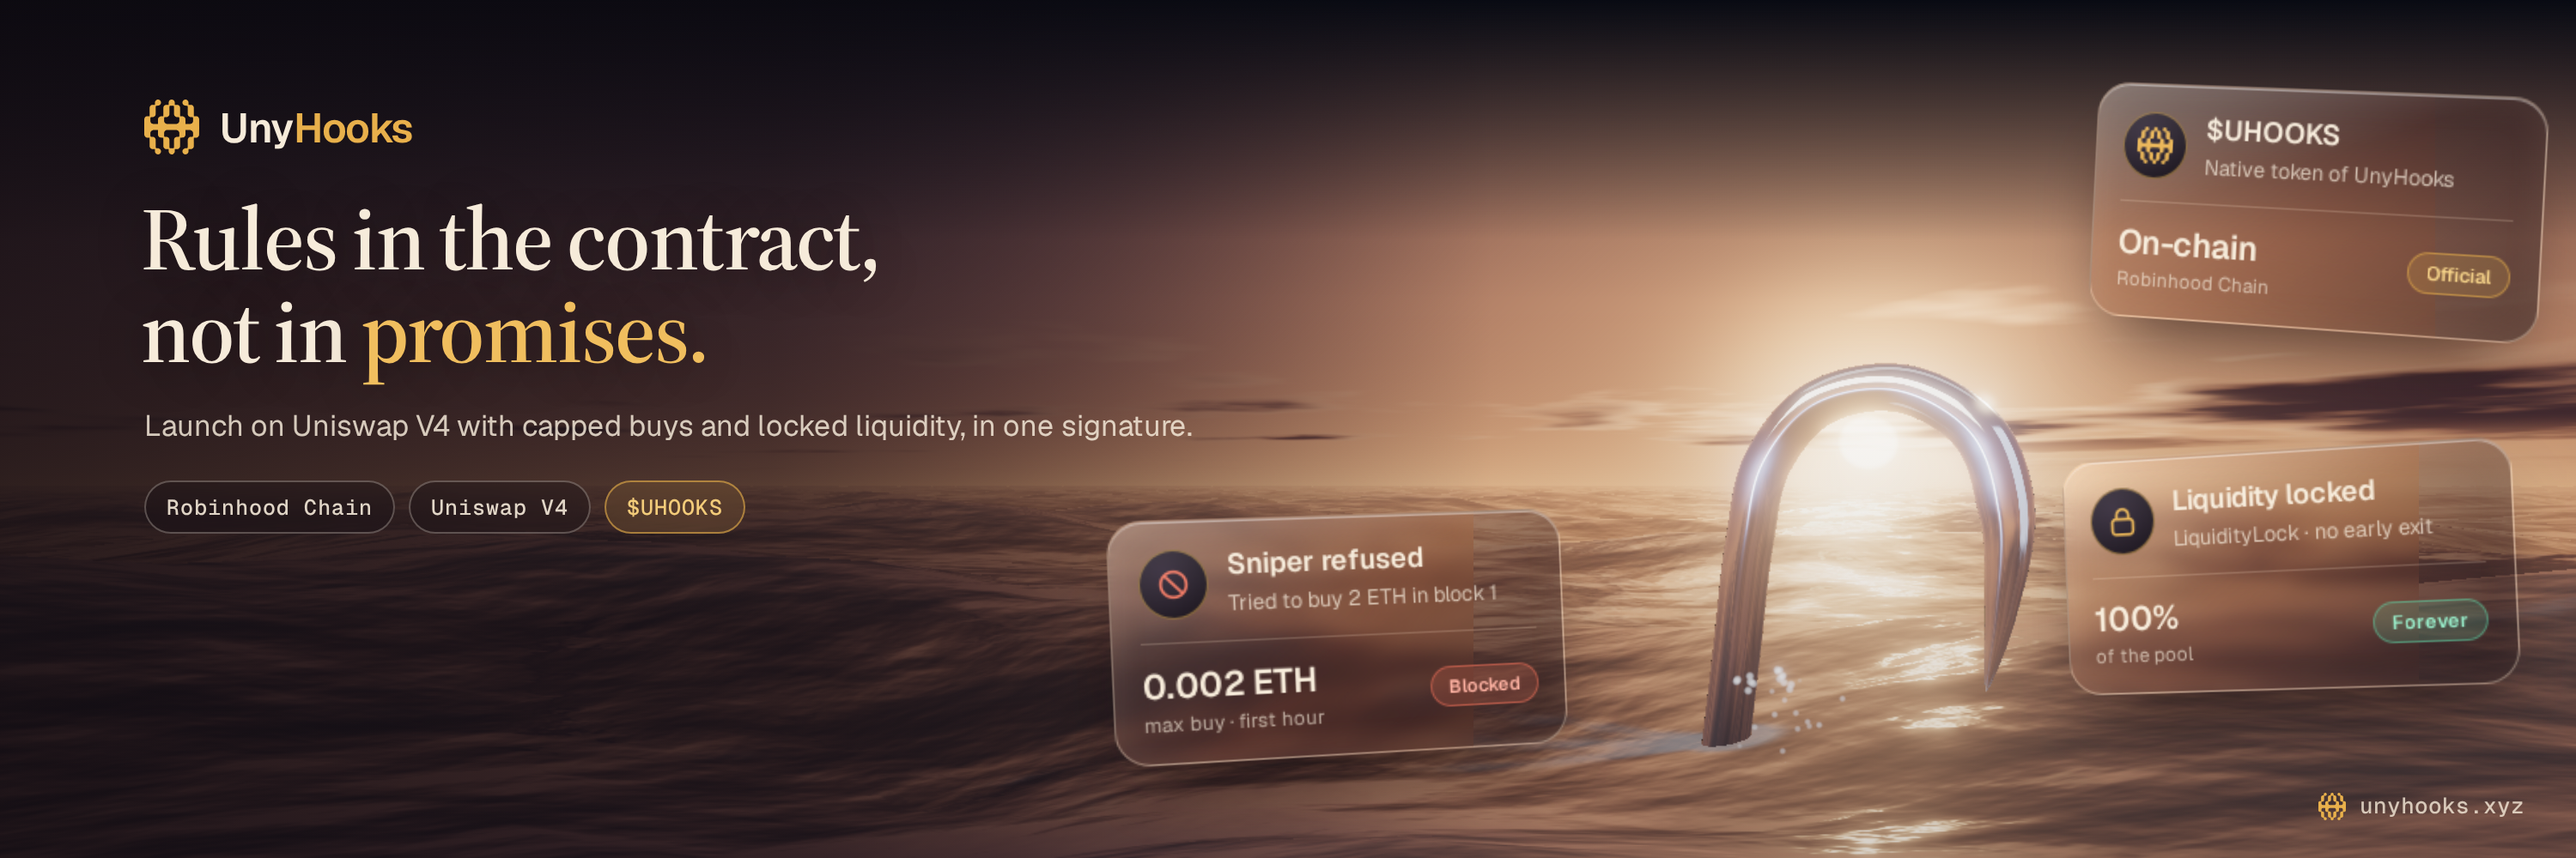
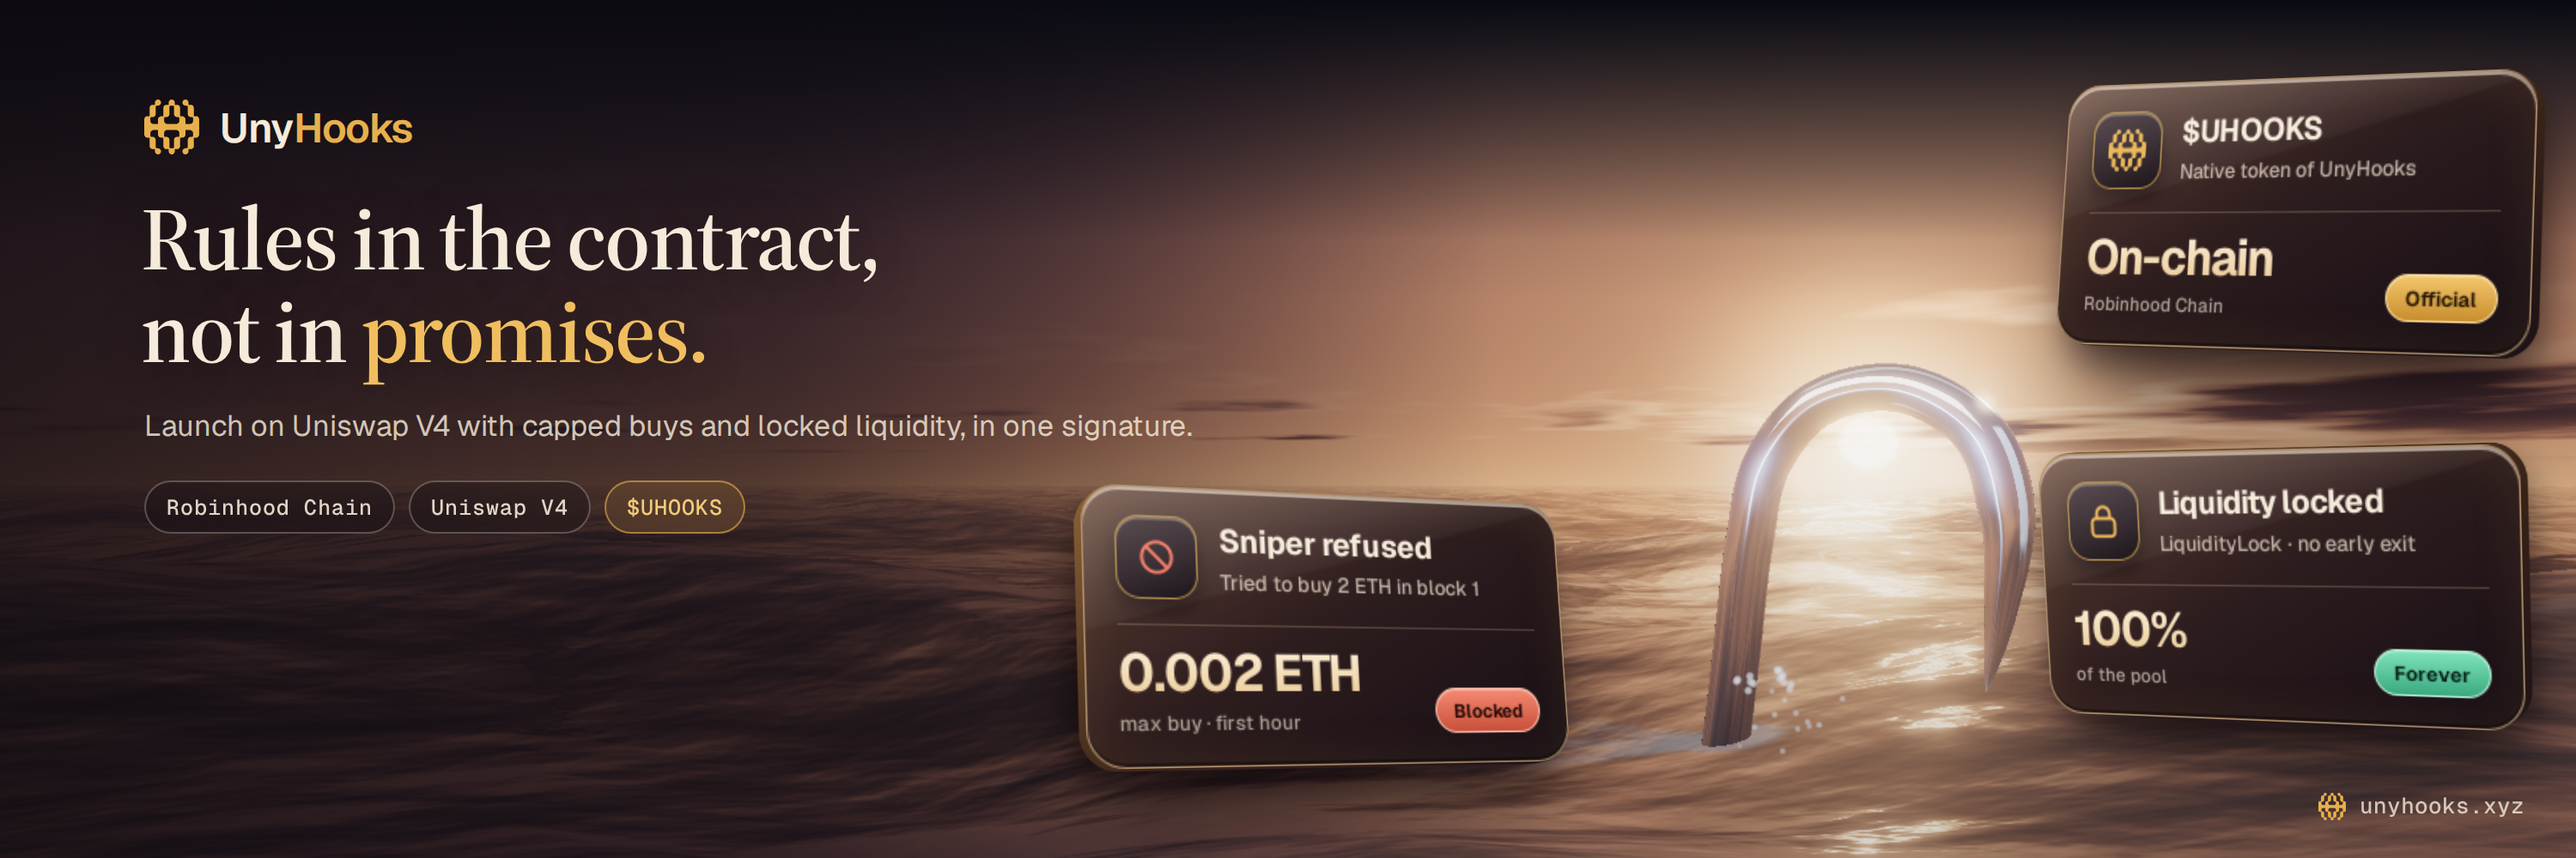
X header: bold 3D slab panels
Claude-Session: https://claude.ai/code/session_01BpK28j4zP1pJ1Z1u3JbspM

diff --git a/unyhooks-site/brand/x-header3.html b/unyhooks-site/brand/x-header3.html
@@ -13,24 +13,26 @@ h1 em{font-style:normal;color:#F0BE5E}
 .chips{position:absolute;left:84px;top:280px;display:flex;gap:8px}
 .chips span{font:500 12.5px 'Geist Mono',monospace;padding:6px 12px;border-radius:999px;color:rgba(246,235,218,.9);background:rgba(20,14,20,.35);border:1px solid rgba(246,235,218,.28);backdrop-filter:blur(6px)}
 .chips span.g{color:#F3CC7A;border-color:rgba(232,176,75,.6);background:rgba(232,176,75,.12)}
-.card{position:absolute;width:268px;padding:14px 16px 15px;border-radius:20px;
-  background:linear-gradient(140deg,rgba(255,236,214,.2),rgba(70,40,40,.32) 50%,rgba(24,14,20,.58));
-  border:1px solid rgba(255,232,205,.42);
-  box-shadow:inset 0 1px 0 rgba(255,255,255,.4),inset 0 0 22px rgba(255,210,170,.10),0 24px 46px -18px rgba(20,8,10,.7);
-  backdrop-filter:blur(10px) saturate(130%)}
-.card::after{content:'';position:absolute;inset:0;border-radius:20px;background:linear-gradient(160deg,rgba(255,255,255,.2),rgba(255,255,255,0) 38%);pointer-events:none}
-.row{display:flex;align-items:center;gap:11px}
-.ico{flex:none;width:40px;height:40px;border-radius:50%;display:grid;place-items:center;background:radial-gradient(circle at 35% 30%,#2A2030,#120C14);border:1px solid rgba(232,176,75,.5)}
-.ico svg{width:22px;height:22px}
-.t b{display:block;font:600 16.5px 'Geist',sans-serif;letter-spacing:-.01em}
-.t span{font-size:12.5px;color:rgba(246,235,218,.74)}
-.foot{display:flex;justify-content:space-between;align-items:center;margin-top:12px;padding-top:11px;border-top:1px solid rgba(255,232,205,.2)}
-.foot b{font:600 20px 'Geist',sans-serif;letter-spacing:-.015em}
-.foot small{display:block;font-size:11.5px;color:rgba(246,235,218,.66);margin-top:1px}
-.pill{font:600 11px 'Geist',sans-serif;padding:4px 10px;border-radius:999px;white-space:nowrap}
-.pill.gold{background:rgba(232,176,75,.18);color:#F7D48A;border:1px solid rgba(232,176,75,.55)}
-.pill.red{background:rgba(240,113,90,.2);color:#FFB3A3;border:1px solid rgba(240,113,90,.55)}
-.pill.green{background:rgba(95,211,166,.18);color:#9AF0CC;border:1px solid rgba(95,211,166,.5)}
+.slab{position:absolute;width:300px;transform-style:preserve-3d;transform:perspective(1000px) rotateX(var(--rx)) rotateY(var(--ry)) rotateZ(var(--rz))}
+.edge{position:absolute;inset:0;border-radius:22px;background:linear-gradient(150deg,#8a6236,#3a2418 55%,#1c1016);transform:translateZ(var(--z))}
+.edge.last{box-shadow:0 30px 60px -12px rgba(10,4,8,.75),0 10px 22px rgba(10,4,8,.45)}
+.card{position:relative;padding:16px 18px 17px;border-radius:22px;transform:translateZ(0);
+  background:linear-gradient(150deg,rgba(92,62,52,.96),rgba(44,28,30,.97) 48%,rgba(22,14,20,.98));
+  border:1.5px solid rgba(255,214,160,.62);
+  box-shadow:inset 0 2px 0 rgba(255,240,220,.55),inset 0 -2px 0 rgba(0,0,0,.35),inset 0 0 30px rgba(232,176,75,.10)}
+.card::after{content:'';position:absolute;inset:0;border-radius:21px;background:linear-gradient(165deg,rgba(255,255,255,.22),rgba(255,255,255,.04) 34%,rgba(255,255,255,0) 35%);pointer-events:none}
+.row{display:flex;align-items:center;gap:13px}
+.ico{flex:none;width:48px;height:48px;border-radius:14px;display:grid;place-items:center;background:linear-gradient(160deg,#3a2a30,#140c12);border:1.5px solid rgba(232,176,75,.7);box-shadow:inset 0 1.5px 0 rgba(255,230,190,.35),0 6px 12px rgba(0,0,0,.4)}
+.ico svg{width:26px;height:26px}
+.t b{display:block;font:700 19px 'Geist',sans-serif;letter-spacing:-.02em}
+.t span{font:500 12.5px 'Geist',sans-serif;color:rgba(246,235,218,.72)}
+.foot{display:flex;justify-content:space-between;align-items:flex-end;margin-top:14px;padding-top:12px;border-top:1px solid rgba(255,220,180,.22)}
+.foot b{font:700 30px/1 'Geist',sans-serif;letter-spacing:-.035em;background:linear-gradient(180deg,#FFF4E2,#E9C890);-webkit-background-clip:text;color:transparent}
+.foot small{display:block;font:500 11.5px 'Geist',sans-serif;color:rgba(246,235,218,.64);margin-top:5px}
+.pill{font:700 11.5px 'Geist',sans-serif;padding:5px 11px;border-radius:999px;white-space:nowrap;box-shadow:inset 0 1px 0 rgba(255,255,255,.25)}
+.pill.gold{background:linear-gradient(180deg,#F3C76C,#C98E2E);color:#2A1A08;border:1px solid #FFE0A0}
+.pill.red{background:linear-gradient(180deg,#F58A72,#C9503A);color:#2A0C06;border:1px solid #FFC2B3}
+.pill.green{background:linear-gradient(180deg,#7FE3BA,#3BAA80);color:#06241A;border:1px solid #BFF5DD}
 .url{position:absolute;right:30px;bottom:22px;display:flex;align-items:center;gap:8px;font:500 13px 'Geist Mono',monospace;color:rgba(246,235,218,.8)}
 .url svg{width:16px;height:16px}
 </style></head><body>
@@ -41,23 +43,29 @@ h1 em{font-style:normal;color:#F0BE5E}
 <p class="sub">Launch on Uniswap V4 with capped buys and locked liquidity, in one signature.</p>
 <div class="chips"><span>Robinhood Chain</span><span>Uniswap V4</span><span class="g">$UHOOKS</span></div>
 
-<div class="card" style="left:648px;top:300px;transform:perspective(900px) rotateY(10deg) rotate(-2.5deg)">
+<div class="slab" style="left:628px;top:286px;--rx:10deg;--ry:22deg;--rz:-3deg"><div class="card">
   <div class="row"><div class="ico"><svg viewBox="0 0 24 24"><circle cx="12" cy="12" r="8" fill="none" stroke="#F0715A" stroke-width="1.8"/><path d="M6.5 6.5l11 11" stroke="#F0715A" stroke-width="1.8"/></svg></div>
   <div class="t"><b>Sniper refused</b><span>Tried to buy 2 ETH in block 1</span></div></div>
   <div class="foot"><div><b>0.002 ETH</b><small>max buy · first hour</small></div><i class="pill red">Blocked</i></div>
-</div>
+</div></div>
 
-<div class="card" style="left:1212px;top:52px;transform:perspective(900px) rotateY(-12deg) rotate(3deg)">
+<div class="slab" style="left:1180px;top:44px;--rx:8deg;--ry:-24deg;--rz:3deg"><div class="card">
   <div class="row"><div class="ico"><svg style="color:#E8B04B"><use href="#m"/></svg></div>
   <div class="t"><b>$UHOOKS</b><span>Native token of UnyHooks</span></div></div>
   <div class="foot"><div><b>On-chain</b><small>Robinhood Chain</small></div><i class="pill gold">Official</i></div>
-</div>
+</div></div>
 
-<div class="card" style="left:1196px;top:262px;transform:perspective(900px) rotateY(-12deg) rotate(-2.5deg)">
+<div class="slab" style="left:1172px;top:262px;--rx:-8deg;--ry:-22deg;--rz:-2.5deg"><div class="card">
   <div class="row"><div class="ico"><svg viewBox="0 0 24 24"><rect x="5" y="10.5" width="14" height="10" rx="2.5" fill="none" stroke="#E8B04B" stroke-width="1.8"/><path d="M8 10.5V8a4 4 0 0 1 8 0v2.5" fill="none" stroke="#E8B04B" stroke-width="1.8"/></svg></div>
   <div class="t"><b>Liquidity locked</b><span>LiquidityLock · no early exit</span></div></div>
   <div class="foot"><div><b>100%</b><small>of the pool</small></div><i class="pill green">Forever</i></div>
-</div>
+</div></div>
 
 <div class="url"><svg style="color:#E8B04B"><use href="#m"/></svg>unyhooks.xyz</div>
+<script>
+for (const slab of document.querySelectorAll('.slab')) {
+  const D = 16;
+  for (let i = D; i >= 1; i--) { const e = document.createElement('div'); e.className = 'edge' + (i === D ? ' last' : ''); e.style.setProperty('--z', -i + 'px'); slab.prepend(e); }
+}
+</script>
 </body></html>
